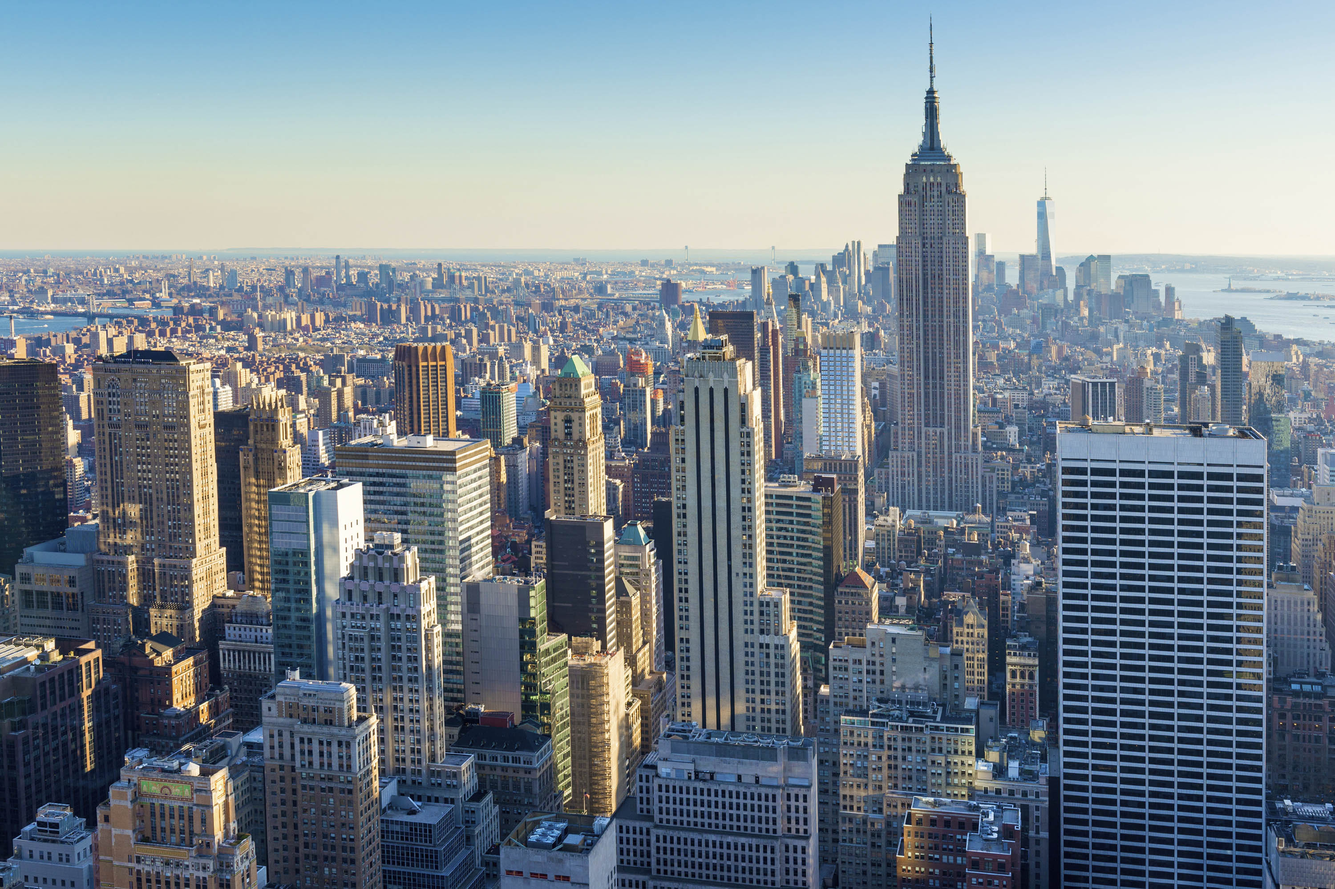
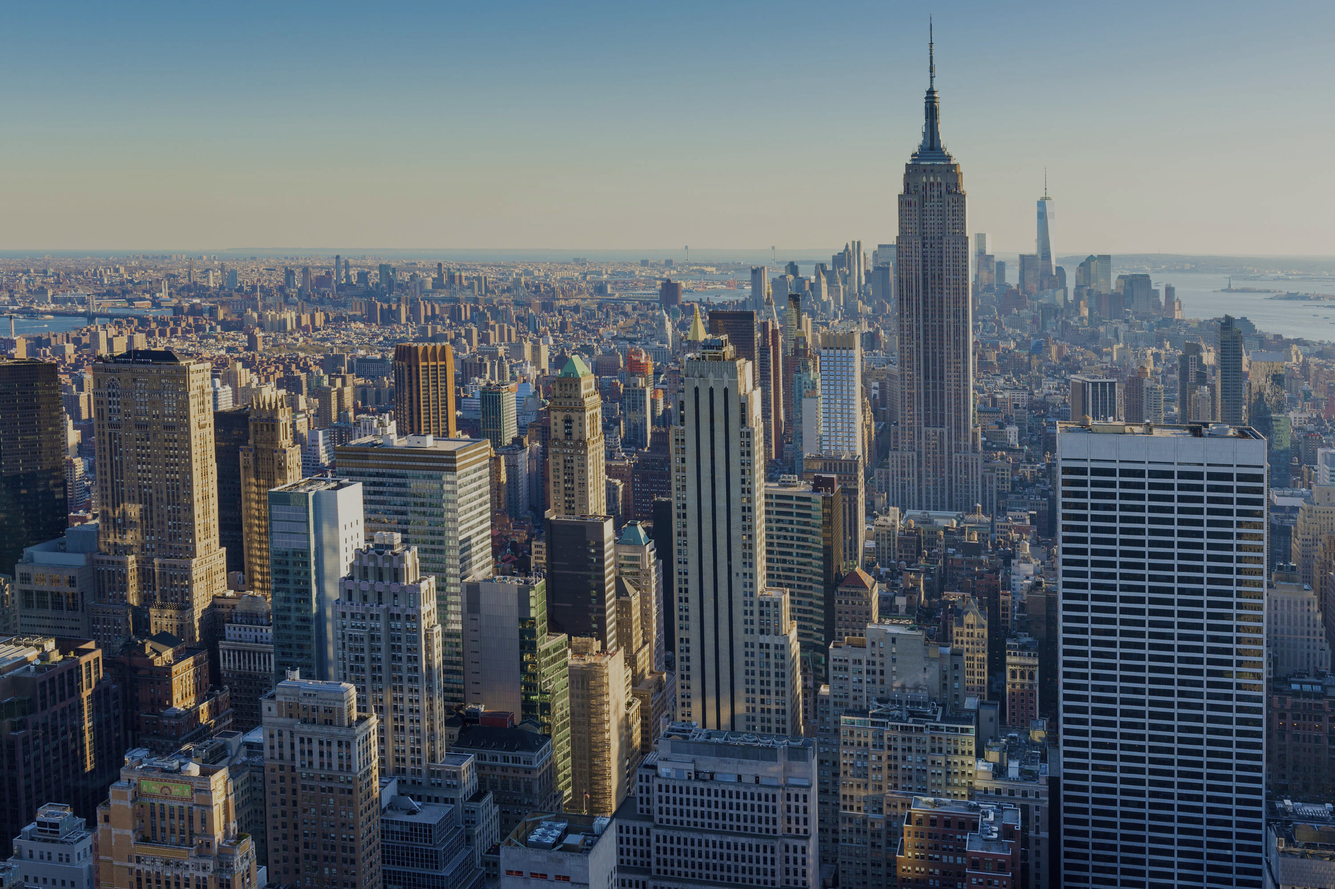
main decor

diff --git a/public/style.css b/public/style.css
@@ -1,5 +1,6 @@
 html {
     height: 3000px;
+    scroll-behavior: smooth;
 }
 
 body {
@@ -23,6 +24,7 @@ a {
 
 .mainText {
     margin: 0;
+    margin-top: 200px;
     color: rgb(238, 238, 238);
     font-family: Lato, sans-serif;
     padding-top: 50px;
@@ -30,6 +32,8 @@ a {
     z-index: 1;
     display: grid;
     text-align: center;
+    justify-content: center;
+    align-items: center;
 }
 
 .mainText > h1 {
@@ -41,13 +45,39 @@ a {
 .mainText > p {
     margin: 0;
     font-weight: 400;
-    padding-top: 20px;
+    padding-top: 40px;
     font-size: 16px;
-    color: rgb(221, 221, 221);
+    color: rgb(199, 199, 199);
 }
 
-.mainText > a {
-    content: "\f107";
+.mainText > div > a > svg {
+    margin-top: 120px;
+    transition: color 0.5s;
+    animation: bounce 1s infinite linear;
+    cursor: pointer;
+}
+
+.mainText > div > a > svg:hover {
+    color: white;
+    animation-play-state: paused;
+}
+
+@keyframes bounce {
+    0%{
+        transform: translateY(0px);
+    }
+    50%{
+        transform: translateY(-20px);
+    }
+    100%{
+        transform: translateY(0px);
+    }
+}
+
+
+
+main{
+	margin-top: 128px;
 }
 
 /* ********Navbar******** */
@@ -55,6 +85,22 @@ a {
 .nav_wrapper {
     position: relative;
 }
+
+
+html:not([data-scroll='0']) .navflex {
+    background-color: black;
+    position: fixed;
+    width: 100%;
+    top: 0;
+    z-index: 100;
+    background-color: black;
+    height: 60px;
+}
+
+[data-scroll='0'] .navflex {
+    background-color: transparent;
+}
+
 
 .navleftflex > img, .navrightflex > img {
     height: 24px;
@@ -92,7 +138,7 @@ a {
 }
 
 .navrightflex {
-    padding-right: 50px;
+    padding-right: 60px;
 }
 
 .navleftflex, .navrightflex {
@@ -108,7 +154,7 @@ a {
 }
 
 .navrightflex > img {
-    padding-left: 20px;
+    padding-left: 30px;
     height: 20px;
     padding-top: 2px;
     cursor: pointer;
@@ -131,7 +177,7 @@ a {
 }
 
 .navrightflex > a {
-    padding-left: 20px;
+    padding-left: 30px;
 }
 
 
@@ -139,19 +185,20 @@ a {
 
 
 .navflex {
-    height: 70px;
+    height: 80px;
     width: 100%;
     display: grid;
-    grid-template-columns: 250px 1fr 470px;
+    grid-template-columns: 250px 1fr 500px;
     align-items: center;
     background-color: transparent;
     position: absolute;
     top: 0;
     left: 0;
     z-index: 1;
+    transition: background-color 0.5s, height 0.5s;
 }
 
-.navleftflex:hover, .navAbout:hover, .navGoals:hover, .navProjects:hover, .navContact:hover  {
+.navleftflex:hover, #navAbout:hover, .navGoals:hover, .navProjects:hover, .navContact:hover  {
  opacity: 75%;
  cursor: pointer;
 }

diff --git a/src/components/MainContent.jsx b/src/components/MainContent.jsx
@@ -1,26 +1,52 @@
 import React from 'react'
+import { FontAwesomeIcon } from '@fortawesome/react-fontawesome'
+import { faChevronDown } from '@fortawesome/free-solid-svg-icons'
+
 
 function MainContent() {
+
+  const storeScroll = () => {
+    document.documentElement.dataset.scroll = window.scrollY;
+};
+
+// Listen for new scroll events
+document.addEventListener('scroll', storeScroll);
+
+// Update scroll position for first time
+storeScroll();
+
   return (
-    <div className="main_container">
 
-          <div className="mainText">
-            <h1>HI, I'M KAMIL</h1>
-            <p>Aspiring Software Engineer</p>
-          </div> 
+      <div className="main_container">
 
-        <div className="welcome">
+            <div className="mainText">
+              <h1>HI, I'M KAMIL</h1>
+              <p>Aspiring Software Engineer</p>
+              <div>
+              <a href="#About">
+              <FontAwesomeIcon icon={faChevronDown} size = '3x' color = '#c7c7c7'/>
+              </a>
+              </div>
+              
+              
+                
+
+              
+            </div> 
+
+          <div className="welcome">
 
 
-          <div className="welcome_dim">
+            <div className="welcome_dim">
+            
+            </div>
 
+            
           </div>
-
           
-        </div>
-        
 
-    </div>
+      </div>
+
   )
 }
 

diff --git a/src/components/Navbar.jsx b/src/components/Navbar.jsx
@@ -1,6 +1,9 @@
-import React from 'react'
+import React from 'react';
+
 
 function Navbar() {
+    
+
   return (
 
         <div className="nav_wrapper">
@@ -9,7 +12,7 @@ function Navbar() {
                 
                 <div className="navleftflex">
                     <img src="icon.png"></img>
-                    <a> KAMIL WISNIEWSKI </a>
+                    <a href="#Home"> KAMIL WISNIEWSKI </a>
                 </div>
 
                 <div className="middleflex">
@@ -17,7 +20,7 @@ function Navbar() {
                 </div>
 
                 <div className="navrightflex">
-                    <a className="navAbout">ABOUT</a>
+                    <a id="navAbout" href="#About">ABOUT</a>
                     <a className="navGoals">GOALS</a>
                     <a className="navProjects">PROJECTS</a>
                     <a className="navContact">CONTACT</a>

diff --git a/src/App.js b/src/App.js
@@ -6,8 +6,10 @@ function App() {
   return (
 
     <div>
+      <a id="Home"></a>
       <Navbar />
       <MainContent />
+      <a id="About"></a>
 
     </div>
 
